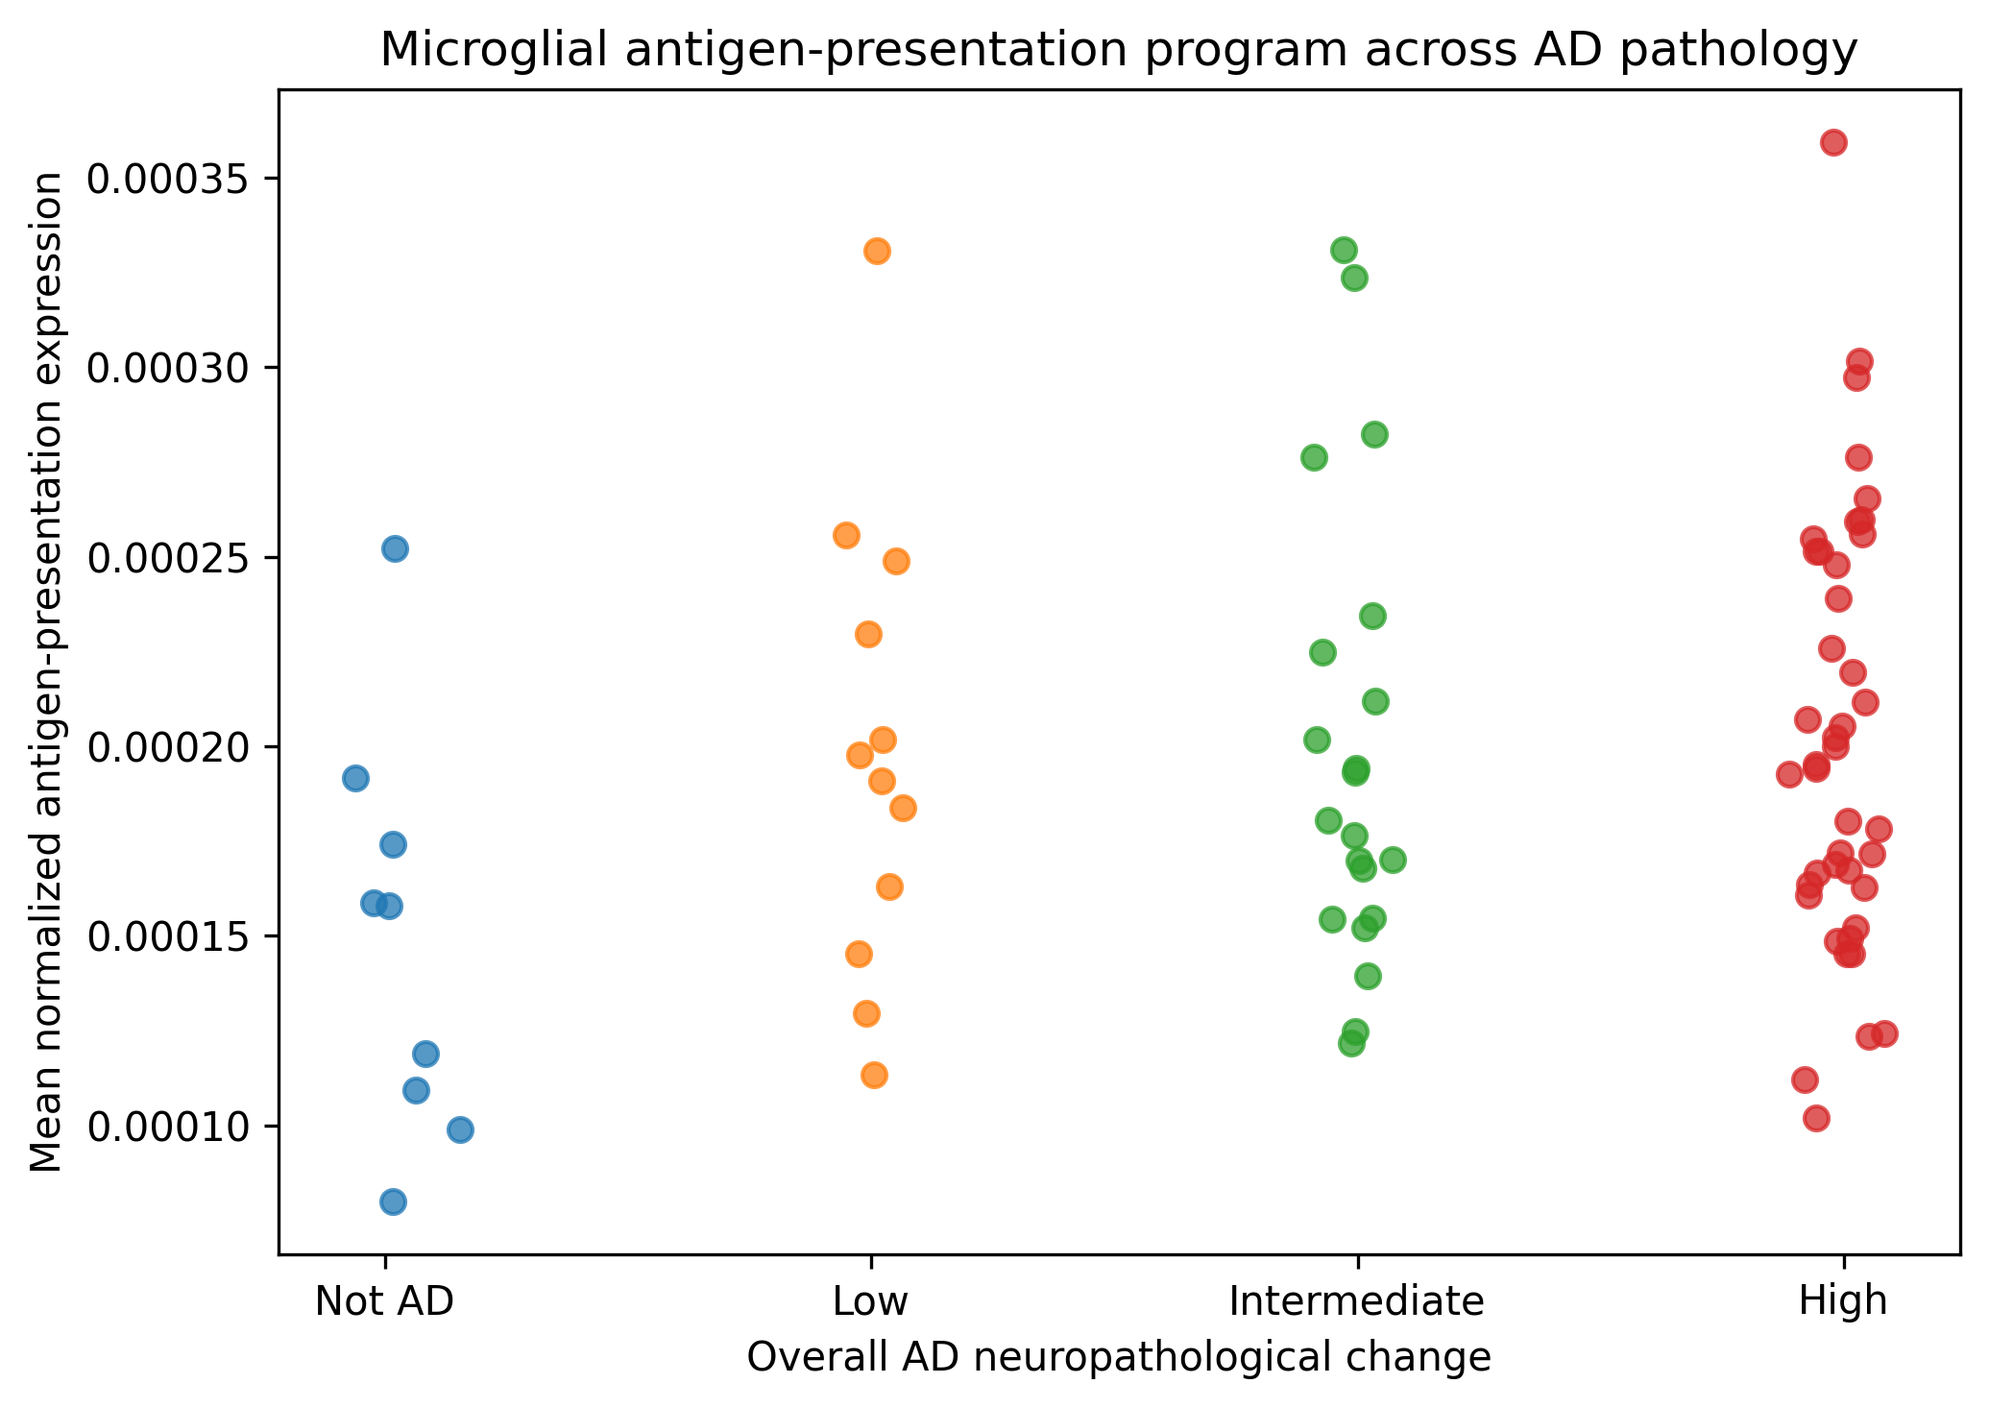
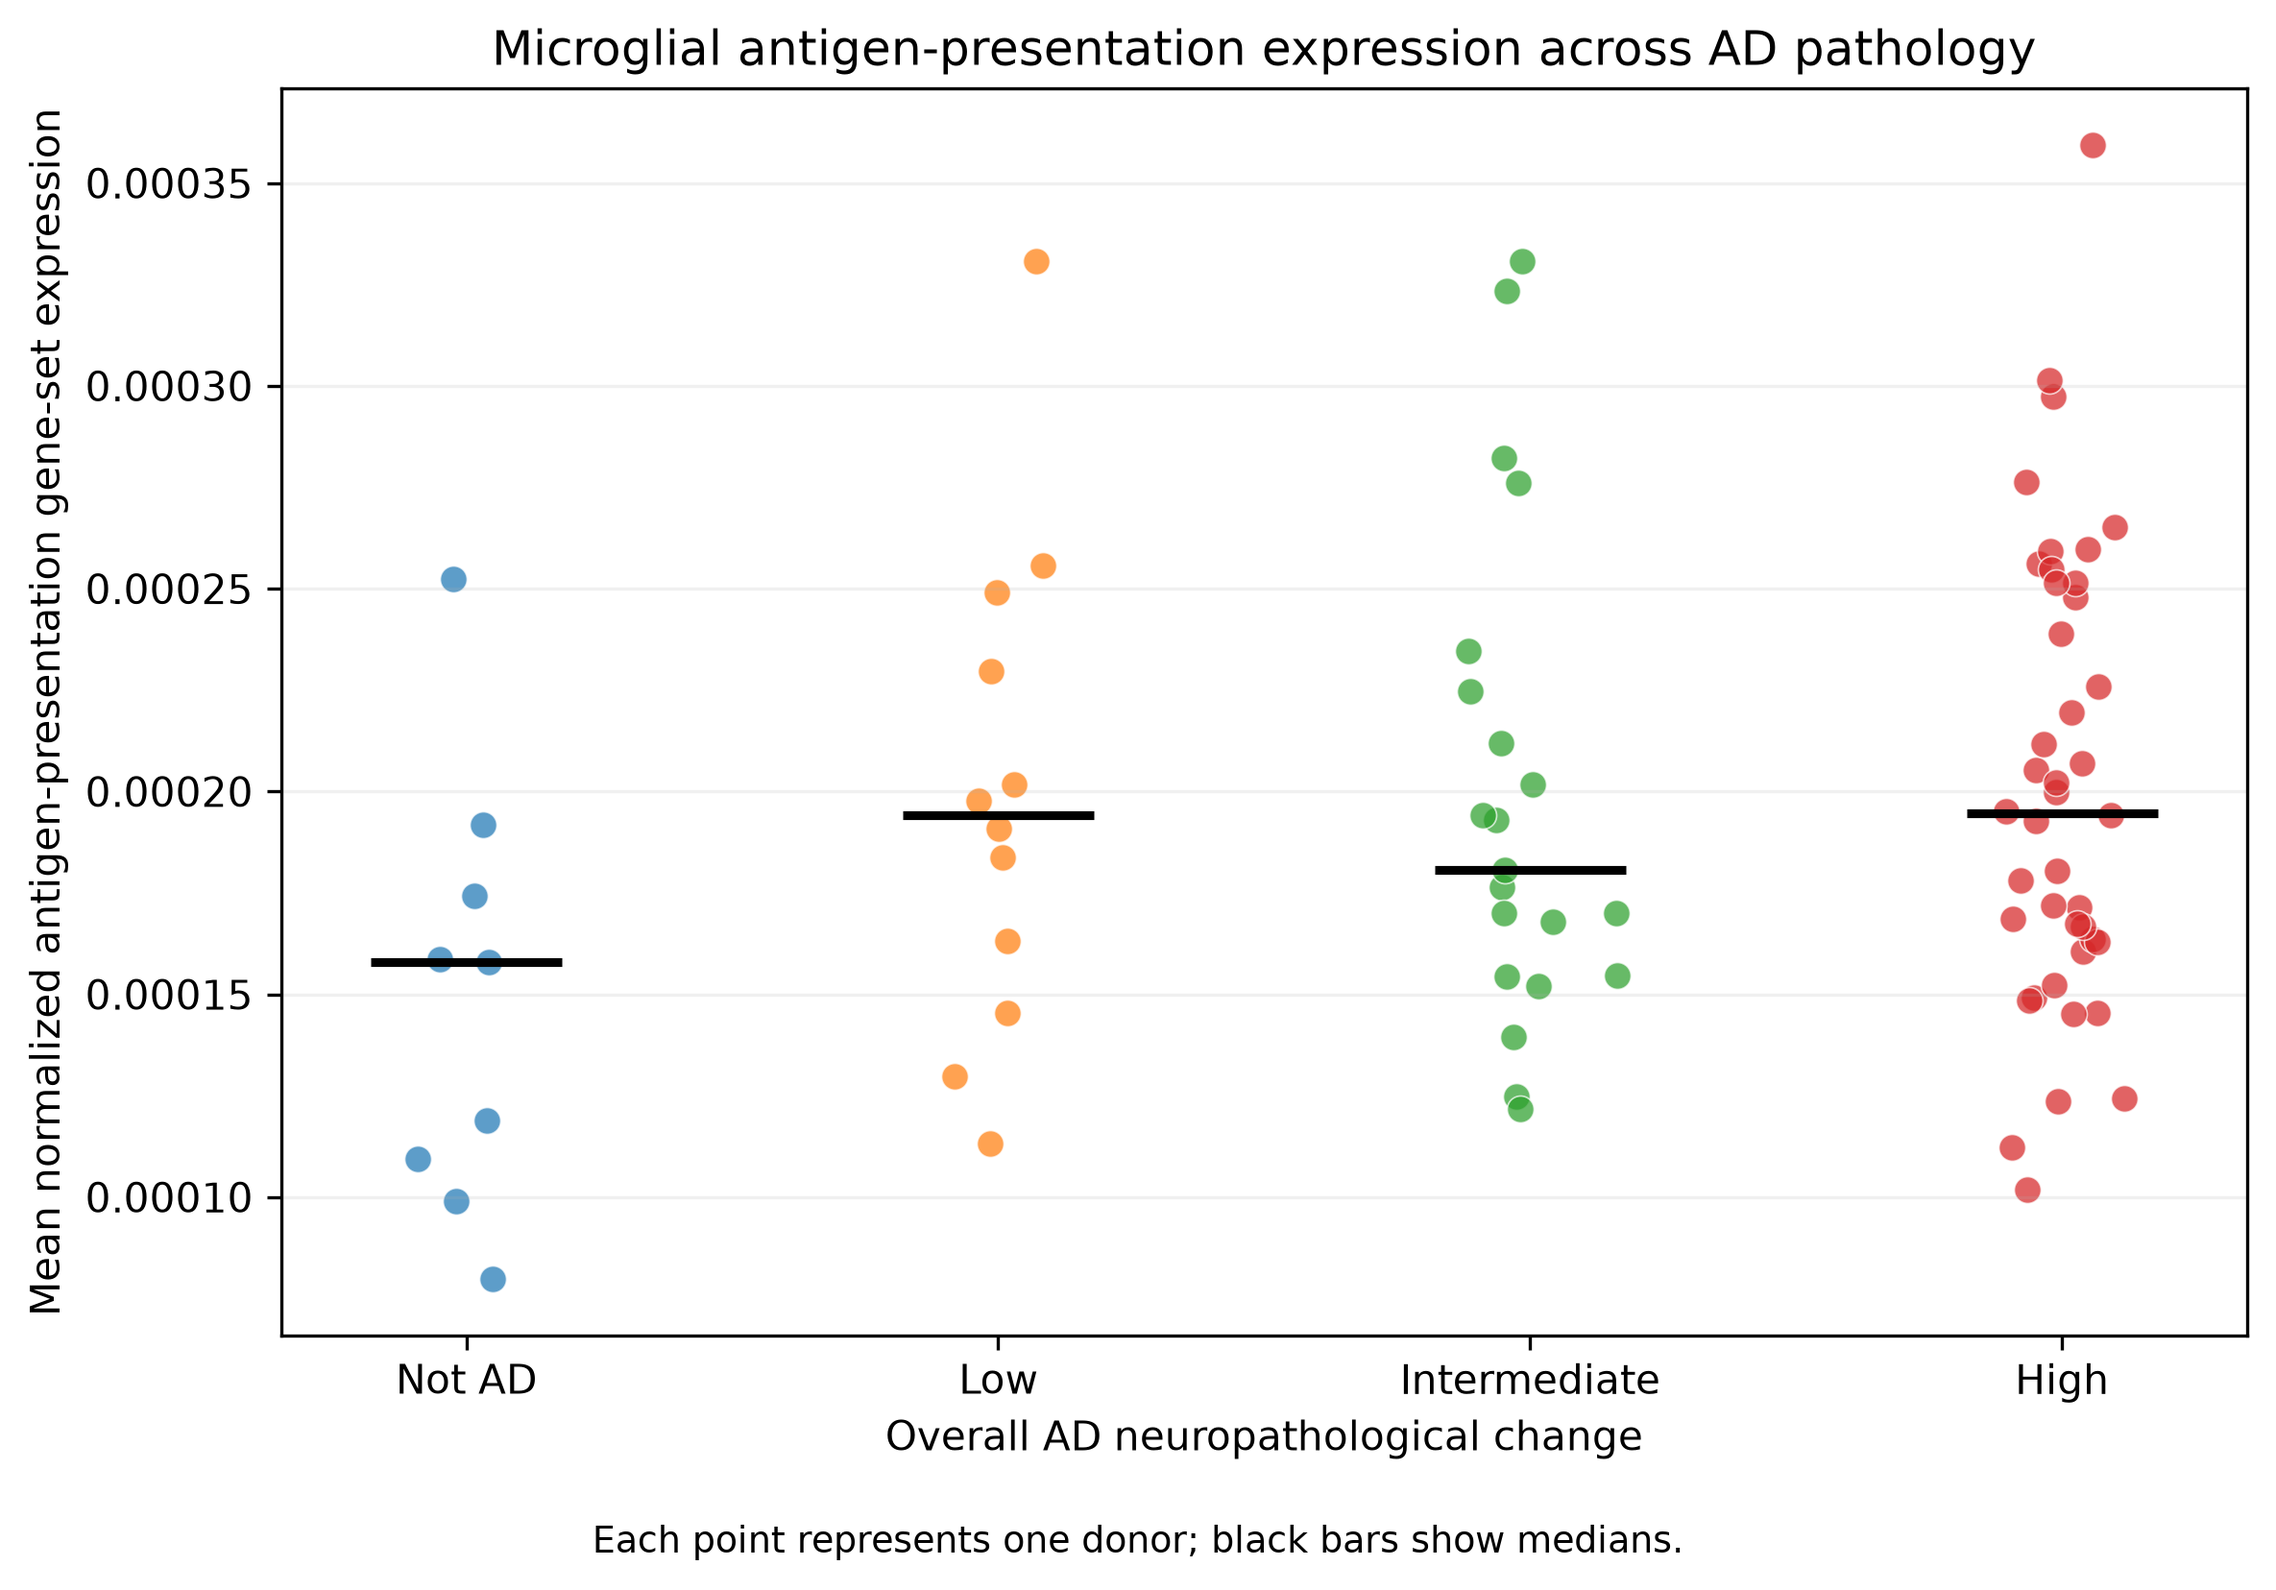
Synchronize SEA-AD analysis artifacts

diff --git a/analysis_plan.md b/analysis_plan.md
@@ -12,7 +12,8 @@ Do donor-level microglial interferon-response and antigen-presentation program s
 
 ## Data and analytic sample
 
-- Public Seattle Alzheimer's Disease Brain Cell Atlas data accessed through CELLxGENE Census
+- Public Seattle Alzheimer's Disease Brain Cell Atlas data accessed through CELLxGENE Census release `2025-11-08`
+- CELLxGENE dataset ID `c76098ba-eed3-45b1-98f2-96fcac55ed18`
 - Middle temporal gyrus
 - Microglial nuclei
 - 38,905 nuclei from 84 donors with complete neuropathology metadata
@@ -37,13 +38,15 @@ Do donor-level microglial interferon-response and antigen-presentation program s
 
 ## Score construction
 
-For each nucleus, each program score was calculated as the mean CELLxGENE normalized expression across the program's available genes. All 20 prespecified genes were available. Nucleus-level scores were then averaged within donor.
+For each nucleus, each program score was calculated as the mean CELLxGENE normalized expression across the program genes. All 20 prespecified genes were available. Nucleus-level scores were then averaged within donor.
 
 ## Statistical analyses
 
 1. **Primary analysis:** two-sided Mann-Whitney U comparison of lower- versus higher-pathology donor scores, accompanied by Cliff's delta.
 2. **Ordinal analysis:** Spearman correlation between donor-level score and four-level neuropathology coding.
-3. **Sensitivity analysis:** donor-level ordinary least squares model including higher-pathology group, age at death, and sex, with HC3 robust standard errors.
+3. **Adjusted sensitivity analysis:** donor-level ordinary least squares model including higher-pathology group, age at death, and sex, with HC3 robust standard errors.
+4. **Assay-composition sensitivity:** repeat the adjusted model with donor-level multiome fraction because some donors contain nuclei from both assays.
+5. **Minimum-nuclei sensitivity:** repeat the donor-level analyses among donors with at least 200 nuclei. This is a pragmatic stability check, not a validated biological or sequencing quality-control threshold.
 
 ## Interpretation rules
 

diff --git a/README.md b/README.md
@@ -11,7 +11,8 @@ Do donor-level microglial interferon-response and antigen-presentation programs 
 ## Dataset
 
 - Seattle Alzheimer's Disease Brain Cell Atlas (SEA-AD)
-- Data accessed through the CZ CELLxGENE Discover Census
+- Data accessed through the CZ CELLxGENE Discover Census release `2025-11-08`
+- CELLxGENE dataset ID: `c76098ba-eed3-45b1-98f2-96fcac55ed18`
 - Brain region: middle temporal gyrus
 - Cell population: microglial nuclei
 - Expression source: CELLxGENE Census normalized layer
@@ -30,7 +31,7 @@ The initial CELLxGENE subset contained 40,000 microglial nuclei from 89 donors. 
 
 All 20 prespecified genes were available in CELLxGENE Census. For each nucleus, a program score was calculated as the mean normalized expression of the genes in that program. Scores were then averaged to the donor level. Each final observation represents one donor; nuclei were not treated as independent human samples.
 
-The primary comparison grouped Not AD and Low as lower pathology and Intermediate and High as higher pathology, using a two-sided Mann-Whitney U test and Cliff's delta. An ordinal analysis used Spearman correlation with neuropathology coded as Not AD = 0, Low = 1, Intermediate = 2, and High = 3. A sensitivity analysis used donor-level ordinary least squares models adjusted for age at death and sex, with HC3 robust standard errors.
+The primary comparison grouped Not AD and Low as lower pathology and Intermediate and High as higher pathology, using a two-sided Mann-Whitney U test and Cliff's delta. An ordinal analysis used Spearman correlation with neuropathology coded as Not AD = 0, Low = 1, Intermediate = 2, and High = 3. A sensitivity analysis used donor-level ordinary least squares models adjusted for age at death and sex, with HC3 robust standard errors. Additional stability checks adjusted for donor-level multiome fraction and repeated the analyses among donors with at least 200 nuclei; the 200-nucleus threshold is pragmatic rather than a validated quality-control cutoff.
 
 ## Gene programs
 

diff --git a/references/README.md b/references/README.md
@@ -17,6 +17,6 @@
 
 ## Donor neuropathology metadata
 
-Donor demographic and neuropathology annotations came from the official SEA-AD donor metadata resource linked on the SEA-AD data and downloads page. The source Excel file is not included in this repository.
+Donor demographic and neuropathology annotations came from the official SEA-AD donor metadata resource. For reproducibility, the notebook pins the exact workbook URL and verifies its SHA-256 checksum before use. The source Excel file is not included in this repository.
 
 For formal reuse, consult the SEA-AD data portal for the citation and acknowledgement instructions associated with the specific downloaded resource.

diff --git a/results/README.md b/results/README.md
@@ -1,3 +1,3 @@
 # Results
 
-`sea_ad_microglia_donor_results.csv` contains the derived donor-level analysis table. Each of its 84 rows represents one donor.
+`sea_ad_microglia_donor_results.csv` contains the derived donor-level analysis table. Each of its 84 rows represents one donor; the table also records nuclei counts and assay-composition fields used in sensitivity checks.
